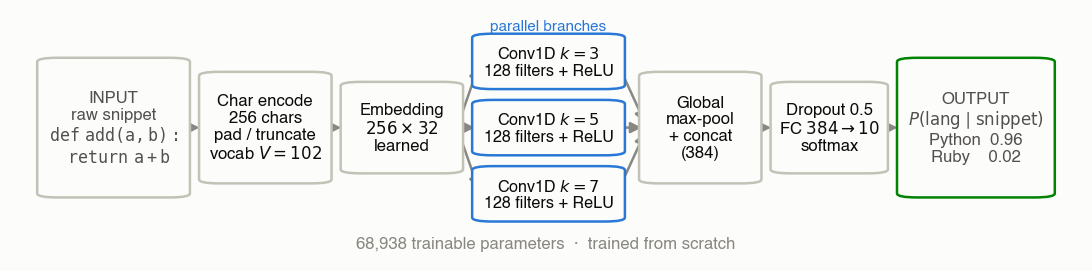
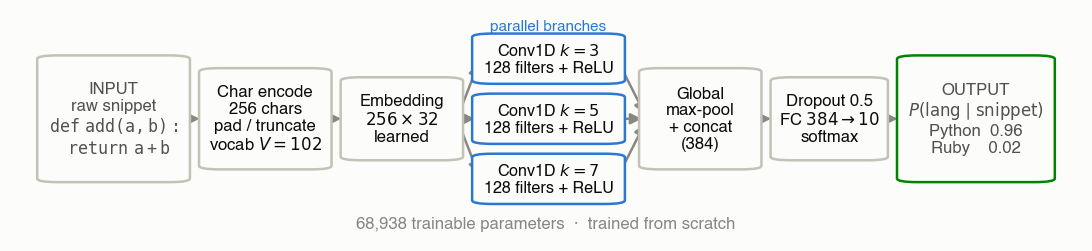
Rewrite report in plain English; verify every citation against publisher records
LANGUAGE
- Rewrote the prose in plainer, more direct English throughout. Kept the compact
  spec form for the architecture, where a list is genuinely clearer than prose
  (and much shorter). Main text still exactly 3 pages, 0 overfull hboxes.

CITATIONS (all 9 papers verified real against DBLP + Crossref + arXiv)
- alreshedy2018scc: real. Was cited as an arXiv preprint; it was peer-reviewed at
  SCAM 2018 (doi 10.1109/SCAM.2018.00031), so now cites that, noting the preprint.
  arXiv:1809.07945 confirmed to resolve to the same paper.
- ugurel2002whats: Crossref (publisher record, doi 10.1145/775047.775141) confirms
  pages 632-638 as cited. DBLP lists 639-644; trusted the publisher.
- khasnabish2014detecting: aligned author to the publisher's record (G. Srinivasaraghavan).
- zhang2015character: added verified NeurIPS pages 649-657.
- kim2014convolutional, kingma2015adam, broder1997resemblance, vandam2016software,
  gilda2017source: confirmed exact, no change.
- linguist + rosettacode URLs return HTTP 200.

FIX
- Table 2 steps read 1,2,5,6,7 after an earlier row merge; renumbered 1-5 and
  corrected the caption to match.

diff --git a/report/progress_report.tex b/report/progress_report.tex
@@ -14,8 +14,8 @@
 \renewcommand{\topfraction}{0.92}
 \renewcommand{\textfraction}{0.05}
 \renewcommand{\floatpagefraction}{0.75}
-\setlength{\textfloatsep}{4pt}
-\setlength{\intextsep}{4pt}
+\setlength{\textfloatsep}{2pt}
+\setlength{\intextsep}{2pt}
 \setlength{\abovecaptionskip}{2pt}
 \setlength{\belowcaptionskip}{0pt}
 
@@ -46,32 +46,29 @@ Code: \url{https://github.com/mohamadmsalman82/codelangid}}
 \section{Brief Project Description}
 \vspace{-4pt}
 
-Syntax highlighters, code search engines, snippet managers and Q\&A sites such as Stack Overflow
-must constantly identify a block of code's language, often from a short fragment with no filename
-or extension \citep{alreshedy2018scc}. \textbf{This project maps a raw snippet to one of 10 popular
-languages (Python, Java, C++, JavaScript, Go, C, Ruby, PHP, Rust, C\#) from its characters alone.}
-Extensions and editor metadata are exactly what is missing in pasted snippets, chat messages and
-scraped pages; rule-based detectors break on short fragments \citep{vandam2016software}, and
-GitHub's Linguist leans on extensions \citep{linguist}, so neither says much about a bare
-snippet---the gap a learned model fills.
+Syntax highlighters, code search engines, snippet managers and Q\&A sites like Stack Overflow all
+need to know what language a piece of code is written in---usually from a short fragment with no
+filename, because the filename is exactly what is lost when code is pasted into a chat or scraped
+from a page \citep{alreshedy2018scc}. \textbf{This project takes a raw snippet and predicts which of
+10 popular languages it is (Python, Java, C++, JavaScript, Go, C, Ruby, PHP, Rust, C\#), using
+nothing but the characters.} Rule-based detectors do badly on short fragments
+\citep{vandam2016software} and GitHub's Linguist mostly just reads the extension \citep{linguist},
+so a learned model fills a real gap.
 
-Deep learning fits this input/output pair for three reasons. Languages differ by \emph{subtle,
-overlapping} cues (keywords, operator spellings, bracket and indentation patterns) a
-character-level CNN learns automatically rather than by hand-engineering features per language
-\citep{zhang2015character}; those cues are \emph{local} n-gram motifs (\texttt{:=}, \texttt{fn},
-\texttt{\$var}), which is exactly what small-kernel convolution detects
-\citep{kim2014convolutional}; and character input side-steps a chicken-and-egg problem---a
-token-based model needs a tokenizer, but choosing one presupposes knowing the language.
-Figure~\ref{fig:pipeline} is the contract: \textbf{input} raw text padded/truncated to 256
-characters, \textbf{output} a softmax over the 10 languages.
+Deep learning suits this input and output for three reasons. What separates one language from
+another is many small overlapping hints---keywords, operator spellings, bracket and indentation
+habits---and a character-level CNN learns those itself instead of me hand-writing rules for 10
+languages \citep{zhang2015character}. Those hints are short character patterns like \texttt{:=},
+\texttt{fn} and \texttt{\$var}, which is exactly what a small-kernel convolution spots
+\citep{kim2014convolutional}. And reading characters avoids a circular problem: a word-based model
+needs a tokenizer, but you cannot pick one until you know the language.
 
 \begin{figure}[h]
 \centering
 \includegraphics[width=\textwidth]{fig_pipeline.pdf}
 \vspace{-5pt}
-\caption{The CodeLangID pipeline. \textbf{Input}: a raw snippet, any language, encoded
-character-by-character into a fixed 256-token window. \textbf{Output}:
-$P(\mathrm{lang}\mid\mathrm{snippet})$ over the 10 classes.}
+\caption{The CodeLangID pipeline. \textbf{Input}: a raw snippet, encoded character-by-character into
+a fixed 256-character window. \textbf{Output}: a probability for each of the 10 languages.}
 \label{fig:pipeline}
 \end{figure}
 
@@ -80,15 +77,15 @@ $P(\mathrm{lang}\mid\mathrm{snippet})$ over the 10 classes.}
 \label{sec:contrib}
 \vspace{-4pt}
 
-This is a \textbf{solo project}: there are no other team members, so every item in
-Table~\ref{tab:contrib} is my own work and I hold all responsibilities end to end. All code is
-reproducible (\texttt{src/}, seed 360); every number regenerates from a clean checkout, the CNN to
-within MPS non-determinism (\S\ref{sec:qual}).
+This is a \textbf{solo project}. There are no other team members, so every item in
+Table~\ref{tab:contrib} is my own work and every responsibility is mine. All the code is in
+\texttt{src/} with a fixed seed (360), and every number here regenerates from a fresh checkout---
+except the CNN, whose results move slightly from run to run (\S\ref{sec:qual}).
 
 \begin{table}[h]
-\centering\footnotesize
-\caption{Work breakdown; every item is my sole responsibility (solo project). Only final tuning
-and the report remain in progress.}
+\centering\scriptsize
+\caption{Work breakdown; every item is mine alone (solo project). Only final tuning and the report
+remain in progress.}
 \label{tab:contrib}
 \vspace{-3pt}
 \begin{tabular}{@{}lp{9.4cm}@{}}
@@ -110,26 +107,25 @@ Evaluation, ablation \& errors & \texttt{figures.py}, \texttt{leakage\_experimen
 \section{Notable Contribution}
 \vspace{-4pt}
 
-My notable contribution is the \textbf{complete working pipeline}: a cleaned balanced dataset, a
-classical baseline, a char-CNN that beats it, and an independently collected held-out set exposing
-a diagnosable failure mode.
-\vspace{-4pt}
+My notable contribution is the \textbf{whole working pipeline} below: a cleaned dataset, a baseline,
+a char-CNN that beats it, and a test set I collected myself that showed exactly why the model fails.
+\vspace{-6pt}
 \subsection{Data Processing}
 \vspace{-4pt}
-\textbf{Source.} Rosetta Code \citep{rosettacode} (\texttt{acmeism/RosettaCodeData} mirror)
-implements the same tasks across many languages, so snippets are labelled by directory, not
-guessed. Table~\ref{tab:clean} gives the full pipeline (\texttt{src/build\_dataset.py}, seed 360) and its
-yield, specified so a classmate can reproduce it. Two steps carry most of the weight: \emph{near-duplicate removal} (MinHash/LSH over 5-character
-shingles drops pairs with Jaccard $\geq0.8$ \citep{broder1997resemblance}---Rosetta hosts many
-near-identical variants of one solution) and \emph{splitting by task, not by file}. Snippets are
-emitted as \texttt{raw} and---where they still clear the 64-character floor---\texttt{nocomment}
-(10{,}271), to test reliance on comment prose versus code structure.
+\textbf{Source.} Rosetta Code \citep{rosettacode} (via the \texttt{acmeism/RosettaCodeData} mirror)
+solves the same tasks in many languages, and each solution sits in a folder named after its language,
+so the labels come free. Table~\ref{tab:clean} lists every cleaning step and what it removed, in
+enough detail for a classmate to redo (\texttt{src/build\_dataset.py}, seed 360). Two steps matter
+most: \emph{removing near-duplicates}, because Rosetta often stores several almost-identical versions
+of one solution; and \emph{splitting by task rather than by file}, so all snippets from one task stay
+in one split. I save each snippet twice---\texttt{raw}, and \texttt{nocomment} with comments removed
+(10{,}271 clear the 64-character floor)---to see whether the model reads the code or the comments.
 
 \begin{table}[h]
-\centering\footnotesize
-\caption{Cleaning pipeline and yield (steps 2--4 run during windowing, so the running total
-is first well-defined at step 4). Result: 10{,}360 snippets, 1{,}036 per class (chance
-$=$ 10\%), split 1{,}162/249/250 \emph{tasks}.}
+\centering\scriptsize
+\caption{Cleaning pipeline and yield (step 2's three filters run together as each file is windowed,
+so the running total is first well-defined at its end). Result: 10{,}360 snippets, 1{,}036 per class
+(chance $=$ 10\%), from 1{,}162/249/250 \emph{tasks}.}
 \label{tab:clean}
 \vspace{-3pt}
 \resizebox{\textwidth}{!}{%
@@ -138,20 +134,21 @@ $=$ 10\%), split 1{,}162/249/250 \emph{tasks}.}
 \textbf{\#} & \textbf{Operation} & \textbf{Removed} & \textbf{Remaining} \\
 \midrule
 1 & Read 10 language directories & --- & 18{,}654 files \\
-2 & Window: $\leq$3 line-aligned 256-char windows/file ($\geq$3 lines, $\geq$64 char) & 1{,}125 files & \\
-3 & Comment/markup filter: drop if comments $>$50\% of non-space chars & 3{,}460 win. & \\
-4 & Exact dedup: SHA-1 of whitespace-normalized text & 327 win. & 38{,}394 snippets \\
-5 & Near-dup dedup: MinHash (64 perm, 16 LSH bands), Jaccard $\geq0.8$ & 353 & 38{,}041 \\
-6 & Balance: cap each class at 1{,}036 $=$ smallest class (PHP) & 27{,}681 & \textbf{10{,}360} \\
-7 & Split \emph{by task} 70/15/15; encode to vocab $V{=}102$, pad/truncate to 256 & --- & 7{,}225 / 1{,}634 / 1{,}501 \\
+2 & Cut into $\leq$3 windows/file of 256 chars ($\geq$3 lines, $\geq$64 chars); drop windows
+    $>$50\% comment; drop exact duplicates (SHA-1 of normalised text) & 1{,}125 files,
+    3{,}787 win. & 38{,}394 snippets \\
+3 & Drop near-duplicates: MinHash over 5-char shingles (64 perms, 16 LSH bands), drop pairs
+    overlapping $\geq$80\% \citep{broder1997resemblance} & 353 & 38{,}041 \\
+4 & Balance: cap each class at 1{,}036 $=$ smallest class (PHP) & 27{,}681 & \textbf{10{,}360} \\
+5 & Split \emph{by task} 70/15/15; encode to vocab $V{=}102$, pad/truncate to 256 & --- & 7{,}225 / 1{,}634 / 1{,}501 \\
 \bottomrule
 \end{tabular}}
 \vspace{-6pt}
 \end{table}
 
-\textbf{Example cleaned training sample}, verbatim from \texttt{raw\_train.jsonl} (class
-\textsc{Python}, task \texttt{Call-a-foreign-language-function}, 121 characters; the two
-\texttt{\#} comments are what the \texttt{nocomment} variant strips):
+\textbf{One cleaned training sample}, copied exactly from \texttt{raw\_train.jsonl}
+(\textsc{Python}, task \texttt{Call-a-foreign-language-function}, 121 characters; the two
+\texttt{\#} comments are what \texttt{nocomment} removes):
 \begin{lstlisting}[language=Python]
 import ctypes
 libc = ctypes.CDLL("/lib/libc.so.6")
@@ -159,65 +156,69 @@ libc.strcmp("abc", "def")     # -1
 libc.strcmp("hello", "hello") #  0
 \end{lstlisting}
 
-\textbf{Plan for never-before-seen data.} Rather than reuse a public dataset I collected the
-final test set myself (\texttt{src/scrape\_heldout.py}): \textbf{740 snippets from 24 real GitHub repositories}, 74 per language, through the same
-windowing, comment and exact-dedup steps (near-dup dedup is moot here---no two library files are
-variants of one task). None is a Rosetta source, and it is deliberately a \emph{different
-distribution}: production library code, not puzzle solutions. Each snippet is checked against the SHA-1 of every training
-snippet---\textbf{0 leaked}---and is never trained or tuned on.
+\textbf{Plan for never-before-seen data.} Instead of reusing a public dataset, I collected the final
+test set myself (\texttt{src/scrape\_heldout.py}): \textbf{740 snippets from 24 real GitHub
+repositories}, 74 per language, cleaned the same way. None has any link to Rosetta Code, and it is
+deliberately a different \emph{kind} of code---real library code, not puzzle answers. I checked every
+snippet against every training snippet: \textbf{none overlap}, and the model never trains or tunes
+on it.
 
-\textbf{Challenges.} (i) PHP is thin on Rosetta (645 files vs.\ Python's 3{,}054), so balancing
-drags \emph{every} class to 1{,}036---the biggest limit on dataset size. (ii) I split by task expecting a per-snippet split to leak; measuring it
-(\texttt{src/leakage\_experiment.py}) showed otherwise---it moves the baseline $+0.20$ and the CNN
-$+0.00$, so near-dup removal, not the split, is what prevents leakage here. I kept the by-task
-split as the safer default. (iii) The line-based stripper over-strips string literals containing \texttt{//} or \texttt{\#},
-and for C deletes \texttt{\#include}/\texttt{\#define}, which are \emph{code}---biasing the
-ablation \emph{against} the CNN's 92.49, so that conclusion is conservative. Fixed for the final.
+\textbf{Challenges.} (i) Rosetta has little PHP (645 files vs.\ Python's 3{,}054), and since I keep
+the classes balanced, that shortage drags \emph{every} class down to 1{,}036---the main limit on
+dataset size. (ii) I split by task assuming a per-snippet split would let the model see the same
+solution twice. I measured it (\texttt{src/leakage\_experiment.py}) and I was wrong: it changes the
+baseline by only $+0.20$ and the CNN not at all---removing near-duplicates had already solved it. I
+kept the by-task split as the safer choice. (iii) My comment remover works line by line, so it wrongly deletes text inside strings containing
+\texttt{//} or \texttt{\#}, and in C deletes \texttt{\#include}/\texttt{\#define}, which are real
+code. That hurts the no-comment score rather than helping, so the 92.49 below is if anything too low
+and my conclusion is safe. Fixed for the final.
 
 \vspace{-6pt}
 \subsection{Baseline Model}
 \vspace{-4pt}
 
-The baseline uses no deep learning: TF-IDF over \textbf{character n-grams} ($n\!\in\![1,3]$,
-\texttt{min\_df}=2, sublinear tf, case preserved) into \textbf{Multinomial Naive Bayes} on the same
-splits \citep{khasnabish2014detecting,ugurel2002whats}. It needs no tuning beyond the fixed n-gram
-range, uses 43{,}573 features and trains in $\approx$4\,s. It is an honest bar, not a straw
-man---\textbf{90.14\%} versus 10\% chance---so n-grams already carry most of the signal.
+The baseline uses no deep learning: it counts character sequences 1 to 3 long, weights them by
+TF-IDF, and feeds them to \textbf{Multinomial Naive Bayes} on the same splits
+\citep{khasnabish2014detecting,ugurel2002whats}. Nothing to tune beyond that 1--3 choice, 43{,}573
+features, 4 seconds to train. It is a real bar: \textbf{90.14\%}, where guessing gets 10\%. Simple
+character counting already does most of the job, so the CNN has to earn the rest.
 
-\textbf{Qualitative (baseline).} Its held-out errors are prose-driven: it labels PHP \textsc{C\#}
-\textbf{34/74} times and gets PHP right only \textbf{26/74}---a pair it never confuses
-in-distribution (0 cases)---and Java$\to$Python (24/74) and C$\to$Python (20/74) repeat the shape:
-English comment blocks drag an n-gram model toward whichever class carries the most prose.
-\textbf{Challenge:} no tuning fixes this---the failure is the representation, which is the gap the
-CNN closes.
+\textbf{Qualitative (baseline).} Its GitHub mistakes are about English, not code. It calls PHP
+\textsc{C\#} \textbf{34 times out of 74} and gets PHP right only \textbf{26}, though it never mixes
+those two up on Rosetta. Java is called Python 24 times and C is called Python 20 times, for the same
+reason: when a snippet is mostly an English comment, a word-counting model drifts toward whichever
+language had the most English in training. \textbf{Challenge:} no tuning fixes this, because the
+problem is what the model looks at, not its settings. That is the gap the CNN closes.
 
 \vspace{-6pt}
 \subsection{Primary Model}
 \label{sec:primary}
 \vspace{-4pt}
 
-The primary model (Figure~\ref{fig:pipeline}) is \texttt{Embedding}$(102,32)$
-(\texttt{padding\_idx}=0); three \emph{parallel} \texttt{Conv1d} branches of widths 3/5/7,
-128 filters each $+$ ReLU; global max-pool per branch; concatenation to 384;
-\texttt{Dropout}(0.5); \texttt{Linear}$(384,10)$ $+$ softmax. Parallel widths rather than a deep stack see 3-, 5- and 7-character motifs at once---the scale at
-which \texttt{fn}, \texttt{:=} and \texttt{\$var} live. It has \textbf{68,938 trainable parameters} in 5 weight layers, trained from scratch with
-cross-entropy and Adam \citep{kingma2015adam} (lr $10^{-3}$, batch 64, $\leq$30 epochs, early
-stopping on validation accuracy, patience 6), in \textbf{35\,s} on an Apple M-series GPU (MPS).
-Validation loss flattens near epoch 10 and the train/validation gap widens after epoch 12---mild
-overfitting early stopping controls (stopped at 25, best \textbf{epoch 19}).
+The main model (Figure~\ref{fig:pipeline}): \texttt{Embedding}$(102,32)$ turns each character into
+32 numbers; three convolutions run \emph{side by side} over 3, 5 and 7 characters (128 filters each,
+then ReLU); each keeps only its strongest response (global max-pool); the three join into 384
+numbers; \texttt{Dropout}(0.5) drops half during training; \texttt{Linear}$(384,10)$ plus softmax
+gives the answer. Three widths side by side, rather than one deep stack, let it see 3-, 5- and
+7-character clues at once. It has \textbf{68,938 trainable parameters} across 5 weight layers, trained from scratch with
+cross-entropy loss and Adam \citep{kingma2015adam} (learning rate $10^{-3}$, batch 64, at most 30
+epochs, stopping once validation accuracy has not improved for 6), in \textbf{35 seconds} on an Apple
+M-series GPU. Validation loss stops improving around epoch 10 and the curves separate after
+12---the model is starting to memorise---so early stopping halted at 25 and kept \textbf{epoch 19}.
 
-I also built the proposal's bidirectional GRU (\texttt{src/gru.py}; 42{,}186 parameters).
-\textbf{It did not pan out}---the most useful negative result so far: 90.27\% test,
-indistinguishable from Naive Bayes, for \textbf{647\,s of training, 18$\times$ the CNN}. Language
-identity in a 256-character window rests on \emph{local} motifs, so recurrence buys nothing.
+I also built the bidirectional GRU I promised in the proposal (\texttt{src/gru.py}; 42{,}186
+parameters). \textbf{It did not work out}---the most useful thing I have learned so far: 90.27\% on
+test, no better than Naive Bayes, for \textbf{647 seconds of training, 18 times the CNN}. In
+hindsight that makes sense: what gives a language away in 256 characters are short local patterns,
+so a model built to track long-range order pays for something this task never uses.
 
 \begin{figure}[t]
 \centering
 \includegraphics[width=\textwidth]{fig_confusion.pdf}
 \vspace{-11pt}
-\caption{Char-CNN confusion, row-normalized (cell $=$ \% of the true class predicted as
-that column). (a) Rosetta test. (b) Never-before-seen GitHub held-out, where
-Java$\to$JavaScript and PHP$\to$Rust dominate (\S\ref{sec:qual}).}
+\caption{Char-CNN confusion (each cell $=$ \% of that true class predicted as that column).
+(a) Rosetta test. (b) The never-before-seen GitHub set, where Java$\to$JavaScript and PHP$\to$Rust
+dominate (\S\ref{sec:qual}).}
 \label{fig:cm}
 \end{figure}
 
@@ -226,15 +227,16 @@ Java$\to$JavaScript and PHP$\to$Rust dominate (\S\ref{sec:qual}).}
 \label{sec:qual}
 \vspace{-4pt}
 
-\textbf{Quantitative.} The char-CNN wins on every split (Table~\ref{tab:results}):
-\textbf{92.74\%} (macro-F1 0.927, loss 0.238) on Rosetta test, \textbf{+2.60} over the baseline,
-and \textbf{82.84\%} (macro-F1 0.822, loss 0.495) held-out, \textbf{+3.24} over it.
+\textbf{Quantitative.} The char-CNN is the best model on every split (Table~\ref{tab:results}). It
+gets \textbf{92.74\%} on the Rosetta test set (macro-F1 0.927, loss 0.238), beating the baseline by
+\textbf{2.60 points}, and \textbf{82.84\%} on the GitHub set it has never seen (macro-F1 0.822, loss
+0.495), beating it by \textbf{3.24}.
 
 \begin{table}[h]
-\centering\footnotesize
-\caption{All models, both test sets (accuracy \%). ``Held-out'' $=$ never-before-seen GitHub
-data. Chance 10\%. Best test / held-out in bold; \texttt{ft} $=$ n-gram features, not learned
-parameters. CNN rows are the committed seeded run (\S\ref{sec:qual}).}
+\centering\scriptsize
+\caption{All models on both test sets (accuracy \%; chance 10\%). Best test / held-out in bold;
+\texttt{ft} $=$ n-gram features, not learned weights. CNN rows are the committed run
+(\S\ref{sec:qual}).}
 \label{tab:results}
 \vspace{-3pt}
 \begin{tabular}{@{}llrrrr@{}}
@@ -252,29 +254,33 @@ Char-BiGRU (rejected)       & raw       & 42{,}186 & 92.59 & 90.27 & 80.54 \\
 \vspace{-4pt}
 \end{table}
 
-\textbf{Comment ablation.} Stripping comments costs the CNN only \textbf{0.25} (92.74$\to$92.49):
-it reads \emph{code structure, not comment prose}. The baseline behaves oppositely---comments
-removed, its held-out score \emph{rises} 2.30 (79.59$\to$81.89).
+\textbf{What happens without comments.} Deleting every comment costs the CNN just \textbf{0.25
+points} (92.74 to 92.49), which means it is reading the \emph{structure of the code}, not the
+English in the comments. The baseline does the opposite: take its comments away and its GitHub score
+actually \emph{goes up} 2.30 points (79.59 to 81.89).
 
-\textbf{Qualitative (CNN).} The 9.9-point gap between the two test sets (Figure~\ref{fig:cm}) is
-the most interesting result so far, because the errors explain it. \emph{(1) Java$\to$JavaScript
-(30 errors): licence headers.} \textbf{22 of the 30} carry an Apache/copyright header, averaging
-only \textbf{17\% code} by non-whitespace character---the rest is English prose in a
-\texttt{/*~*/} block. Rosetta files have none, so the model never learned that a real file's first
-256 characters are often language-identical boilerplate: it is starved of code, not wrong. \emph{(2) PHP$\to$Rust (16 errors): PHP 8 attributes.} \textbf{13 of the 16} contain \texttt{\#[},
-diagnosable straight from training data, where it occurs in \textbf{0.0\% of PHP snippets (0/753)}
-but \textbf{9.0\% of Rust (63/703)}---so the model learned \texttt{\#[}$\Rightarrow$Rust. PHP 8
-spells attributes identically (\texttt{\#[Group('...')]}) and they appear in \textbf{18.9\% of
-held-out PHP (14/74)}, but Rosetta's PHP predates PHP 8. Textbook \emph{distribution
-shift}---confidently wrong for a legible reason---and PHP's F1 falls 0.97$\to$0.66.
+\textbf{Qualitative (CNN).} The model scores 9.9 points lower on GitHub than on Rosetta
+(Figure~\ref{fig:cm}), and reading the mistakes explains why. They fall into two groups.
+\emph{(1) Java called JavaScript, 30 times: licence headers.} \textbf{22 of those 30} start with an
+Apache or copyright header, and on average only \textbf{17\% of the snippet is code}---the rest is
+English inside a \texttt{/*~*/} block. Rosetta files never have these headers, so the model never
+learned that a real file often opens with legal boilerplate that looks identical in every language.
+It is not really wrong; it just has almost no code to look at. \emph{(2) PHP called Rust, 16 times: PHP 8 attributes.} \textbf{13 of those 16} contain
+\texttt{\#[}, and the training data explains it: \texttt{\#[} appears in \textbf{0\% of PHP snippets
+(0 of 753)} but \textbf{9\% of Rust (63 of 703)}, so the model sensibly learned \texttt{\#[} means
+Rust. But modern PHP 8 writes attributes exactly the same way (\texttt{\#[Group('...')]}), and they
+appear in \textbf{19\% of my GitHub PHP (14 of 74)}. Rosetta's PHP predates PHP 8, so the model never
+saw it---a textbook case of test data not matching training data. PHP's F1 drops 0.97 to 0.66.
 
-\textbf{Challenges.} (i) The held-out set took the most work: my first version yielded only 34
-snippets/class because the C repositories I picked were too small, so I widened the list, and the
-BiGRU's 18$\times$ cost made searching over it impractical. (ii) MPS is non-deterministic, so a fixed seed does not pin the result: eight reruns span
-\textbf{91.0--92.7} on test (mean 92.2). Table~3 is the committed run, but the CNN beat the
-baseline \textbf{8/8} (worst $+0.87$)---the ranking is robust, the exact figure is not. \textbf{On feasibility}\label{sec:feas}: all data is obtained, the baseline is beaten on both test
-sets, and the pipeline reruns in under 3 minutes, so the remaining work---licence-header stripping,
-post-2015 PHP sources, SCC \citep{alreshedy2018scc}---is comfortably achievable.
+\textbf{Challenges.} (i) The GitHub test set took the most effort: my first attempt got only 34
+snippets per language because the C repositories I chose were too small. The GRU's 18$\times$ cost
+also made it impractical to tune. (ii) Apple's GPU does not give identical results twice, so a fixed
+seed does not pin the number down: eight reruns landed between \textbf{91.0 and 92.7} on test
+(average 92.2). Table~3 is the run I committed, but the ordering holds---the CNN beat the baseline in
+\textbf{all 8}, the closest by 0.87---so trust the ranking, not the exact figure. \textbf{Can I finish in time?}\label{sec:feas} Yes. The data is collected, the baseline is beaten on
+both test sets, and the pipeline reruns in under 3 minutes. The error analysis already says what to
+do next: strip licence headers, add post-2015 PHP, and add the SCC dataset
+\citep{alreshedy2018scc}.
 
 \bibliographystyle{iclr2022_conference}
 \bibliography{refs}

diff --git a/src/figures.py b/src/figures.py
@@ -69,7 +69,7 @@ def arrow(ax, x1, y1, x2, y2):
 
 # ------------------------------------------------------------ Fig 1: pipeline
 def fig_pipeline():
-    fig, ax = plt.subplots(figsize=(5.5, 1.40))
+    fig, ax = plt.subplots(figsize=(5.5, 1.30))
     ax.set_xlim(-0.02, 1.02); ax.set_ylim(-0.02, 1.02); ax.axis("off"); ax.grid(False)
 
     box(ax, 0.005, 0.16, 0.135, 0.68,
@@ -163,7 +163,7 @@ def fig_curves():
 def fig_confusion():
     d = json.loads((RES / "cnn_raw.json").read_text())
     labels = d["labels"]
-    fig, axes = plt.subplots(1, 2, figsize=(5.5, 1.58))
+    fig, axes = plt.subplots(1, 2, figsize=(5.5, 1.48))
     for ax, split, title in zip(axes, ["test", "heldout"], [
             f"(a) Rosetta test  ·  acc {d['test']['accuracy']*100:.1f}%",
             f"(b) GitHub held-out  ·  acc {d['heldout']['accuracy']*100:.1f}%"]):